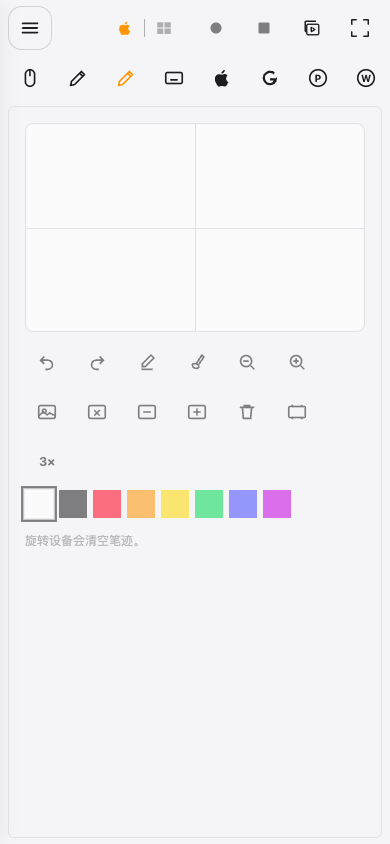
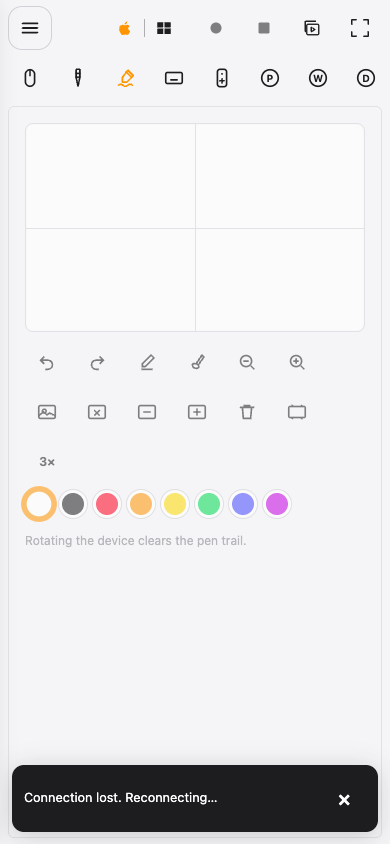
Docs: SoftAP ZH/EN screenshots + guide FW 0.7.114
Recapture SoftAP Pen/Presenter/Creative in Chinese and English.
ZH locale loads *-zh.png; all other langs use *-en.png.
Bump guide eyebrow firmware label 0.7.43 → 0.7.114.

diff --git a/guide.html b/guide.html
@@ -92,7 +92,7 @@
   <main id="main">
     <section class="g-hero" id="choose">
       <div class="wrap">
-        <span class="eyebrow"><span data-l="en">User guide · firmware 0.7.43</span><span data-l="zh">使用说明 · 固件 0.7.43</span><span data-l="de">Benutzerhandbuch · Firmware 0.7.43</span><span data-l="fr">Guide de l'utilisateur · firmware 0.7.43</span><span data-l="ja">ユーザーガイド · ファームウェア 0.7.43</span><span data-l="ko">사용 설명서 · 펌웨어 0.7.43</span><span data-l="ar">دليل المستخدم · البرنامج الثابت 0.7.43</span></span>
+        <span class="eyebrow"><span data-l="en">User guide · firmware 0.7.114</span><span data-l="zh">使用说明 · 固件 0.7.114</span><span data-l="de">Benutzerhandbuch · Firmware 0.7.114</span><span data-l="fr">Guide de l'utilisateur · firmware 0.7.114</span><span data-l="ja">ユーザーガイド · ファームウェア 0.7.114</span><span data-l="ko">사용 설명서 · 펌웨어 0.7.114</span><span data-l="ar">دليل المستخدم · البرنامج الثابت 0.7.114</span></span>
         <h1><span data-l="en">Two ways to use Flexhub.<br><span class="accent">Pick yours — the guide follows.</span></span><span data-l="zh">Flexhub 有两种用法。<br><span class="accent">选好一种，整页跟着切换。</span></span><span data-l="de">Zwei Wege, Flexhub zu nutzen.<br><span class="accent">Wählen Sie Ihren — die Anleitung folgt.</span></span><span data-l="fr">Deux façons d'utiliser Flexhub.<br><span class="accent">Choisissez la vôtre — le guide suit.</span></span><span data-l="ja">Flexhub の使い方は2通り。<br><span class="accent">あなたの使い方を選ぶと、ガイドが切り替わります。</span></span><span data-l="ko">Flexhub를 쓰는 두 가지 방법.<br><span class="accent">내 방식을 고르면 설명서가 맞춰집니다.</span></span><span data-l="ar">طريقتان لاستخدام Flexhub.<br><span class="accent">اختر طريقتك وسيتبعك الدليل.</span></span></h1>
         <p class="lead"><span data-l="en">Every time Flexhub powers up it settles into one of two modes, automatically. Choose the one that matches your setup and every section below — steps, timing, tips and troubleshooting — switches to it.</span><span data-l="zh">Flexhub 每次通电都会自动进入两种模式之一。选择跟你的接法一致的那一种，下面所有内容——步骤、等待时间、小贴士和常见问题——都会跟着切换。</span><span data-l="de">Jedes Mal, wenn Flexhub antreibt, setzt es sich automatisch in einen von zwei Modi ein. Wählen Sie den, der zu Ihrem Setup passt, und jeder Abschnitt unten - Schritte, Timing, Tipps und Fehlersuche - wechselt dazu.</span><span data-l="fr">Chaque fois que Flexhub s'active, il s'installe en deux modes, automatiquement. Choisissez celui qui correspond à votre configuration et chaque section ci-dessous — étapes, timing, conseils et dépannage — passe à elle.</span><span data-l="ja">Flexhub は電源が入るたびに、2つのモードのどちらかに自動で決まります。ご自分の構成に合うほうを選ぶと、以下のすべてのセクション(手順・タイミング・ヒント・トラブルシューティング)がそのモードに切り替わります。</span><span data-l="ko">Flexhub는 전원이 들어올 때마다 두 가지 모드 중 하나로 자동으로 정해집니다. 내 환경에 맞는 모드를 고르면 아래의 모든 섹션(단계, 타이밍, 팁, 문제 해결)이 그 모드에 맞게 바뀝니다.</span><span data-l="ar">في كل مرة يُشغَّل فيها Flexhub يستقر تلقائيًا على أحد وضعين. اختر الوضع الذي يناسب إعدادك، وستتحول كل الأقسام أدناه — الخطوات والتوقيت والنصائح واستكشاف الأخطاء — إليه.</span></p>
         <div class="choose" role="group" aria-label="Choose a mode" data-a11y="aria-label:choose">
@@ -359,9 +359,9 @@
             <div class="ph-tabs" role="tablist" aria-label="Remote tabs" data-a11y="aria-label:tabs"><button type="button" role="tab" id="tb-mouse" data-tab="mouse" aria-controls="pn-mouse"><span data-l="en">Mouse</span><span data-l="zh">鼠标</span><span data-l="de">Maus</span><span data-l="fr">Souris</span><span data-l="ja">マウス</span><span data-l="ko">마우스</span><span data-l="ar">الفأرة</span></button><button type="button" role="tab" id="tb-pen" data-tab="pen" aria-controls="pn-pen"><span data-l="en">Pen</span><span data-l="zh">笔</span><span data-l="de">Pen</span><span data-l="fr">Pen</span><span data-l="ja">Pen</span><span data-l="ko">Pen</span><span data-l="ar">Pen</span></button><button type="button" role="tab" id="tb-creative" data-tab="creative" aria-controls="pn-creative"><span data-l="en">Creative Pad</span><span data-l="zh">创意画板</span><span data-l="de">Creative Pad</span><span data-l="fr">Creative Pad</span><span data-l="ja">クリエイティブパッド</span><span data-l="ko">크리에이티브 패드</span><span data-l="ar">لوحة الإبداع</span></button><button type="button" role="tab" id="tb-keys" data-tab="keys" aria-controls="pn-keys"><span data-l="en">Keyboard</span><span data-l="zh">键盘</span><span data-l="de">Tastatur</span><span data-l="fr">Clavier</span><span data-l="ja">キーボード</span><span data-l="ko">키보드</span><span data-l="ar">لوحة المفاتيح</span></button><button type="button" role="tab" id="tb-presenter" data-tab="presenter" aria-controls="pn-presenter"><span data-l="en">Presenter</span><span data-l="zh">演示器</span><span data-l="de">Presenter</span><span data-l="fr">Presenter</span><span data-l="ja">プレゼンター</span><span data-l="ko">프레젠터</span><span data-l="ar">العرض التقديمي</span></button><button type="button" role="tab" id="tb-apple" data-tab="apple" aria-controls="pn-apple"><span data-l="en">Apple TV</span><span data-l="zh">Apple TV</span><span data-l="de">Apple TV</span><span data-l="fr">Apple TV</span><span data-l="ja">Apple TV</span><span data-l="ko">Apple TV</span><span data-l="ar">Apple TV</span></button><button type="button" role="tab" id="tb-google" data-tab="google" aria-controls="pn-google"><span data-l="en">Google TV</span><span data-l="zh">Google TV</span><span data-l="de">Google TV</span><span data-l="fr">Google TV</span><span data-l="ja">Google TV</span><span data-l="ko">Google TV</span><span data-l="ar">Google TV</span></button></div>
             
 <div class="ph-pane" id="pn-mouse" role="tabpanel" aria-labelledby="tb-mouse" data-pane="mouse"><div class="mk-tiles"><i></i><i></i><i></i><i></i><i></i><i class="pen"></i><i></i></div><div class="mk-pad"><span class="finger"></span></div></div>
-<div class="ph-pane" id="pn-pen" role="tabpanel" aria-labelledby="tb-pen" data-pane="pen" hidden><figure class="g-shot"><img src="assets/shots/softap-pen.png" width="390" height="844" loading="lazy" decoding="async" alt="SoftAP Pen tab with pressure HUD"><figcaption><span data-l="en">SoftAP Pen · pressure HUD (USB digitizer). Android finger OK; iPad limited — Apple Pencil pending; active capacitive pens often weak.</span><span data-l="zh">SoftAP「笔」· 压感 HUD（USB 数位笔）。Android 手指可用；iPad 受限——Apple Pencil 待测；主动电容笔通常较弱。</span><span data-l="de">SoftAP-Pen · Druck-HUD (USB). Android-Finger OK; iPad begrenzt — Apple Pencil ausstehend; aktive Stylusse oft schwach.</span><span data-l="fr">SoftAP Pen · HUD pression (USB). Doigt Android OK ; iPad limité — Apple Pencil à tester ; stylet actif souvent faible.</span><span data-l="ja">SoftAP Pen · 筆圧 HUD（USB）。Android の指は可；iPad は制限 — Apple Pencil 未検証；アクティブ静電ペンは弱いことが多い。</span><span data-l="ko">SoftAP Pen · 필압 HUD(USB). Android 손가락 가능; iPad 제한 — Apple Pencil 미검증; 액티브 정전식 펜은 약한 편.</span><span data-l="ar">SoftAP Pen · مؤشر الضغط (USB). إصبع Android؛ iPad محدود — Apple Pencil قيد الاختبار؛ القلم السعوي النشط غالبًا ضعيف.</span></figcaption></figure></div><div class="ph-pane" id="pn-creative" role="tabpanel" aria-labelledby="tb-creative" data-pane="creative"><figure class="g-shot"><img src="assets/shots/softap-creative.png" width="390" height="844" loading="lazy" decoding="async" alt="SoftAP Creative pad"><figcaption><span data-l="en">Creative pad — mouse-style trail. Digitizer pressure: SoftAP Pen over USB.</span><span data-l="zh">创意画板 — 鼠标式笔迹。数位笔压感请用 USB「笔」页。</span><span data-l="de">Creative Pad — mausartig. Digitizer-Druck: SoftAP-Pen per USB.</span><span data-l="fr">Pad créatif — style souris. Pression digitizer : SoftAP Pen en USB.</span><span data-l="ja">クリエイティブパッド — マウス式。デジタイザ筆圧は SoftAP Pen を USB で。</span><span data-l="ko">크리에이티브 패드 — 마우스 방식. 디지타이저 필압은 SoftAP Pen을 USB로.</span><span data-l="ar">لوحة الإبداع — بأسلوب الفأرة. ضغط digitizer: SoftAP Pen عبر USB.</span></figcaption></figure></div>
+<div class="ph-pane" id="pn-pen" role="tabpanel" aria-labelledby="tb-pen" data-pane="pen" hidden><figure class="g-shot"><img class="softap-shot" data-softap="pen" src="assets/shots/softap-pen-en.png" width="390" height="844" loading="lazy" decoding="async" alt="SoftAP Pen tab with pressure HUD"><figcaption><span data-l="en">SoftAP Pen · pressure HUD (USB digitizer). Android finger OK; iPad limited — Apple Pencil pending; active capacitive pens often weak.</span><span data-l="zh">SoftAP「笔」· 压感 HUD（USB 数位笔）。Android 手指可用；iPad 受限——Apple Pencil 待测；主动电容笔通常较弱。</span><span data-l="de">SoftAP-Pen · Druck-HUD (USB). Android-Finger OK; iPad begrenzt — Apple Pencil ausstehend; aktive Stylusse oft schwach.</span><span data-l="fr">SoftAP Pen · HUD pression (USB). Doigt Android OK ; iPad limité — Apple Pencil à tester ; stylet actif souvent faible.</span><span data-l="ja">SoftAP Pen · 筆圧 HUD（USB）。Android の指は可；iPad は制限 — Apple Pencil 未検証；アクティブ静電ペンは弱いことが多い。</span><span data-l="ko">SoftAP Pen · 필압 HUD(USB). Android 손가락 가능; iPad 제한 — Apple Pencil 미검증; 액티브 정전식 펜은 약한 편.</span><span data-l="ar">SoftAP Pen · مؤشر الضغط (USB). إصبع Android؛ iPad محدود — Apple Pencil قيد الاختبار؛ القلم السعوي النشط غالبًا ضعيف.</span></figcaption></figure></div><div class="ph-pane" id="pn-creative" role="tabpanel" aria-labelledby="tb-creative" data-pane="creative"><figure class="g-shot"><img class="softap-shot" data-softap="creative" src="assets/shots/softap-creative-en.png" width="390" height="844" loading="lazy" decoding="async" alt="SoftAP Creative pad"><figcaption><span data-l="en">Creative pad — mouse-style trail. Digitizer pressure: SoftAP Pen over USB.</span><span data-l="zh">创意画板 — 鼠标式笔迹。数位笔压感请用 USB「笔」页。</span><span data-l="de">Creative Pad — mausartig. Digitizer-Druck: SoftAP-Pen per USB.</span><span data-l="fr">Pad créatif — style souris. Pression digitizer : SoftAP Pen en USB.</span><span data-l="ja">クリエイティブパッド — マウス式。デジタイザ筆圧は SoftAP Pen を USB で。</span><span data-l="ko">크리에이티브 패드 — 마우스 방식. 디지타이저 필압은 SoftAP Pen을 USB로.</span><span data-l="ar">لوحة الإبداع — بأسلوب الفأرة. ضغط digitizer: SoftAP Pen عبر USB.</span></figcaption></figure></div>
 <div class="ph-pane" id="pn-keys" role="tabpanel" aria-labelledby="tb-keys" data-pane="keys"><div class="mk-type"><span>Hello</span><b>Send</b></div><div class="mk-keys"><div><i class="w hot">Esc</i><i class="w">PrtSc</i><i class="w">Ins</i></div><div><i>1</i><i>2</i><i>3</i><i>4</i><i>5</i><i>6</i><i>7</i><i>8</i><i>9</i></div><div><i>q</i><i>w</i><i>e</i><i>r</i><i>t</i><i>y</i><i>u</i><i>i</i><i>o</i></div><div><i>a</i><i>s</i><i>d</i><i>f</i><i>g</i><i>h</i><i>j</i><i>k</i><i>l</i></div><div><i class="w hot2">Ctrl</i><i class="w">Alt</i><i class="w">Gui</i><i class="w">Space</i></div><div><i>←</i><i>↑</i><i>↓</i><i>→</i><i class="w">PgUp</i><i class="w">PgDn</i></div></div></div>
-<div class="ph-pane" id="pn-presenter" role="tabpanel" aria-labelledby="tb-presenter" data-pane="presenter"><figure class="g-shot"><img src="assets/shots/softap-presenter.png" width="390" height="844" loading="lazy" decoding="async" alt="SoftAP Presenter"><figcaption><span data-l="en">Presenter — slides, volume, start/exit slideshow.</span><span data-l="zh">演示器 — 翻页、音量、开始/退出放映。</span><span data-l="de">Presenter — Folien, Lautstärke, Slideshow.</span><span data-l="fr">Présentateur — diapos, volume, démarrer/quitter.</span><span data-l="ja">プレゼンター — スライド・音量・開始/終了。</span><span data-l="ko">프레젠터 — 슬라이드, 볼륨, 시작/종료.</span><span data-l="ar">المقدّم — شرائح، صوت، بدء/إنهاء.</span></figcaption></figure></div>
+<div class="ph-pane" id="pn-presenter" role="tabpanel" aria-labelledby="tb-presenter" data-pane="presenter"><figure class="g-shot"><img class="softap-shot" data-softap="presenter" src="assets/shots/softap-presenter-en.png" width="390" height="844" loading="lazy" decoding="async" alt="SoftAP Presenter"><figcaption><span data-l="en">Presenter — slides, volume, start/exit slideshow.</span><span data-l="zh">演示器 — 翻页、音量、开始/退出放映。</span><span data-l="de">Presenter — Folien, Lautstärke, Slideshow.</span><span data-l="fr">Présentateur — diapos, volume, démarrer/quitter.</span><span data-l="ja">プレゼンター — スライド・音量・開始/終了。</span><span data-l="ko">프레젠터 — 슬라이드, 볼륨, 시작/종료.</span><span data-l="ar">المقدّم — شرائح، صوت، بدء/إنهاء.</span></figcaption></figure></div>
 <div class="ph-pane" id="pn-apple" role="tabpanel" aria-labelledby="tb-apple" data-pane="apple"><div class="mk-tv"><div class="mk-side"><i></i><i></i><i></i><i></i><i></i><i></i><i></i><i></i></div><div class="mk-dpad"><span class="u"></span><span class="l"></span><span class="r"></span><span class="d"></span><span class="c"></span><span class="ripple"></span></div></div></div>
 <div class="ph-pane" id="pn-google" role="tabpanel" aria-labelledby="tb-google" data-pane="google"><div class="mk-tv"><div class="mk-side"><i></i><i></i><i></i><i></i><i></i><i></i><i></i><i></i></div><div class="mk-dpad"><span class="u"></span><span class="l"></span><span class="r"></span><span class="d"></span><span class="c"></span><span class="ripple"></span></div></div></div>
 

diff --git a/index.html b/index.html
@@ -276,7 +276,7 @@
         <div class="ui-shots">
           <figure class="ui-shot">
             <div class="phone-frame">
-              <img src="assets/shots/softap-pen.png" width="390" height="844" loading="lazy" decoding="async" alt="SoftAP Pen tab with pressure HUD" data-i18n-attr="alt:shots.penAlt">
+              <img class="softap-shot" data-softap="pen" src="assets/shots/softap-pen-en.png" width="390" height="844" loading="lazy" decoding="async" alt="SoftAP Pen tab with pressure HUD" data-i18n-attr="alt:shots.penAlt">
             </div>
             <figcaption>
               <b data-i18n="shots.penT">Pen · pressure HUD</b>
@@ -285,7 +285,7 @@
           </figure>
           <figure class="ui-shot">
             <div class="phone-frame">
-              <img src="assets/shots/softap-presenter.png" width="390" height="844" loading="lazy" decoding="async" alt="SoftAP Presenter tab" data-i18n-attr="alt:shots.presenterAlt">
+              <img class="softap-shot" data-softap="presenter" src="assets/shots/softap-presenter-en.png" width="390" height="844" loading="lazy" decoding="async" alt="SoftAP Presenter tab" data-i18n-attr="alt:shots.presenterAlt">
             </div>
             <figcaption>
               <b data-i18n="shots.presenterT">Presenter</b>
@@ -294,7 +294,7 @@
           </figure>
           <figure class="ui-shot">
             <div class="phone-frame">
-              <img src="assets/shots/softap-creative.png" width="390" height="844" loading="lazy" decoding="async" alt="SoftAP Creative pad tab" data-i18n-attr="alt:shots.creativeAlt">
+              <img class="softap-shot" data-softap="creative" src="assets/shots/softap-creative-en.png" width="390" height="844" loading="lazy" decoding="async" alt="SoftAP Creative pad tab" data-i18n-attr="alt:shots.creativeAlt">
             </div>
             <figcaption>
               <b data-i18n="shots.creativeT">Creative pad</b>

diff --git a/site.js b/site.js
@@ -1092,6 +1092,12 @@ const LANG_HTML = {en:"en", zh:"zh-Hans", de:"de", fr:"fr", ja:"ja", ko:"ko", ar
     try { localStorage.setItem("flexhub_lang", lang); } catch (_) {}
     const sel = document.getElementById("lang");
     if (sel) sel.value = lang;
+    const shotLoc = lang === "zh" ? "zh" : "en";
+    document.querySelectorAll("img.softap-shot[data-softap]").forEach((img) => {
+      const key = img.getAttribute("data-softap");
+      if (!key) return;
+      img.src = "assets/shots/softap-" + key + "-" + shotLoc + ".png";
+    });
   }
 
   applyLang(detectLang());

diff --git a/guide.js b/guide.js
@@ -65,6 +65,12 @@
       });
     });
     all(".stepper").forEach(function (s) { if (s._render) s._render(); });
+    var shotLoc = lang === "zh" ? "zh" : "en";
+    all("img.softap-shot[data-softap]").forEach(function (img) {
+      var key = img.getAttribute("data-softap");
+      if (!key) return;
+      img.src = "assets/shots/softap-" + key + "-" + shotLoc + ".png";
+    });
   }
   setLang(detectLang());
   var langSel = doc.getElementById("lang");

diff --git a/README.md b/README.md
@@ -11,6 +11,7 @@ Product marketing site for **Flexhub** (asb_pico_ds5 Wi-Fi hotspot remote / Pico
 - Audience: end customers (not developers). Tone: sunny, friendly, benefit-first, minimal tech talk
 - Storefront copy rule: **no ASB Agent / MCP / AI / Skill / enterprise automation narrative** on customer pages. Product sells shortcuts/macros · mouse · keyboard · USB pressure pen · USB/Bluetooth HID · optional spare remote. SoftAP page is `flexhub.local` / `192.168.4.1` from firmware, not a product brand claim.
 - Messaging pillars: (1) your phone, tablet or computer becomes a **shortcut panel, mouse, keyboard and USB pressure pen**, (2) works with phones, tablets and computers (old or new), (3) no app for everyday use (app only for updates). Remote control is only a small bonus, never the headline.
+- SoftAP firmware referenced on the guide: **0.7.114**.
 - SoftAP **Pen** (digitizer): USB pressure to host. Honest status — Android finger usable; iPad finger works but platform-limited (Apple Pencil pending); active capacitive stylus usually weak. Bluetooth drawing stays mouse-style.
 - Two usage modes (confirmed against asb_pico_ds5 firmware `src/main.cpp` chooseLink/startSharedRadio and hotspot UI strings): **USB** — Flexhub plugged into the target device with a USB data cable acts as a USB keyboard/mouse; **Bluetooth** — Flexhub on power only (charger/power bank) advertises as `flexhub` and is paired in the target device's Bluetooth settings. Mode is picked automatically at power-up; replug to switch. In both modes the controlling phone/tablet/computer joins Flexhub's Wi-Fi hotspot (`asb.local`) and uses the web page — no app.
 
